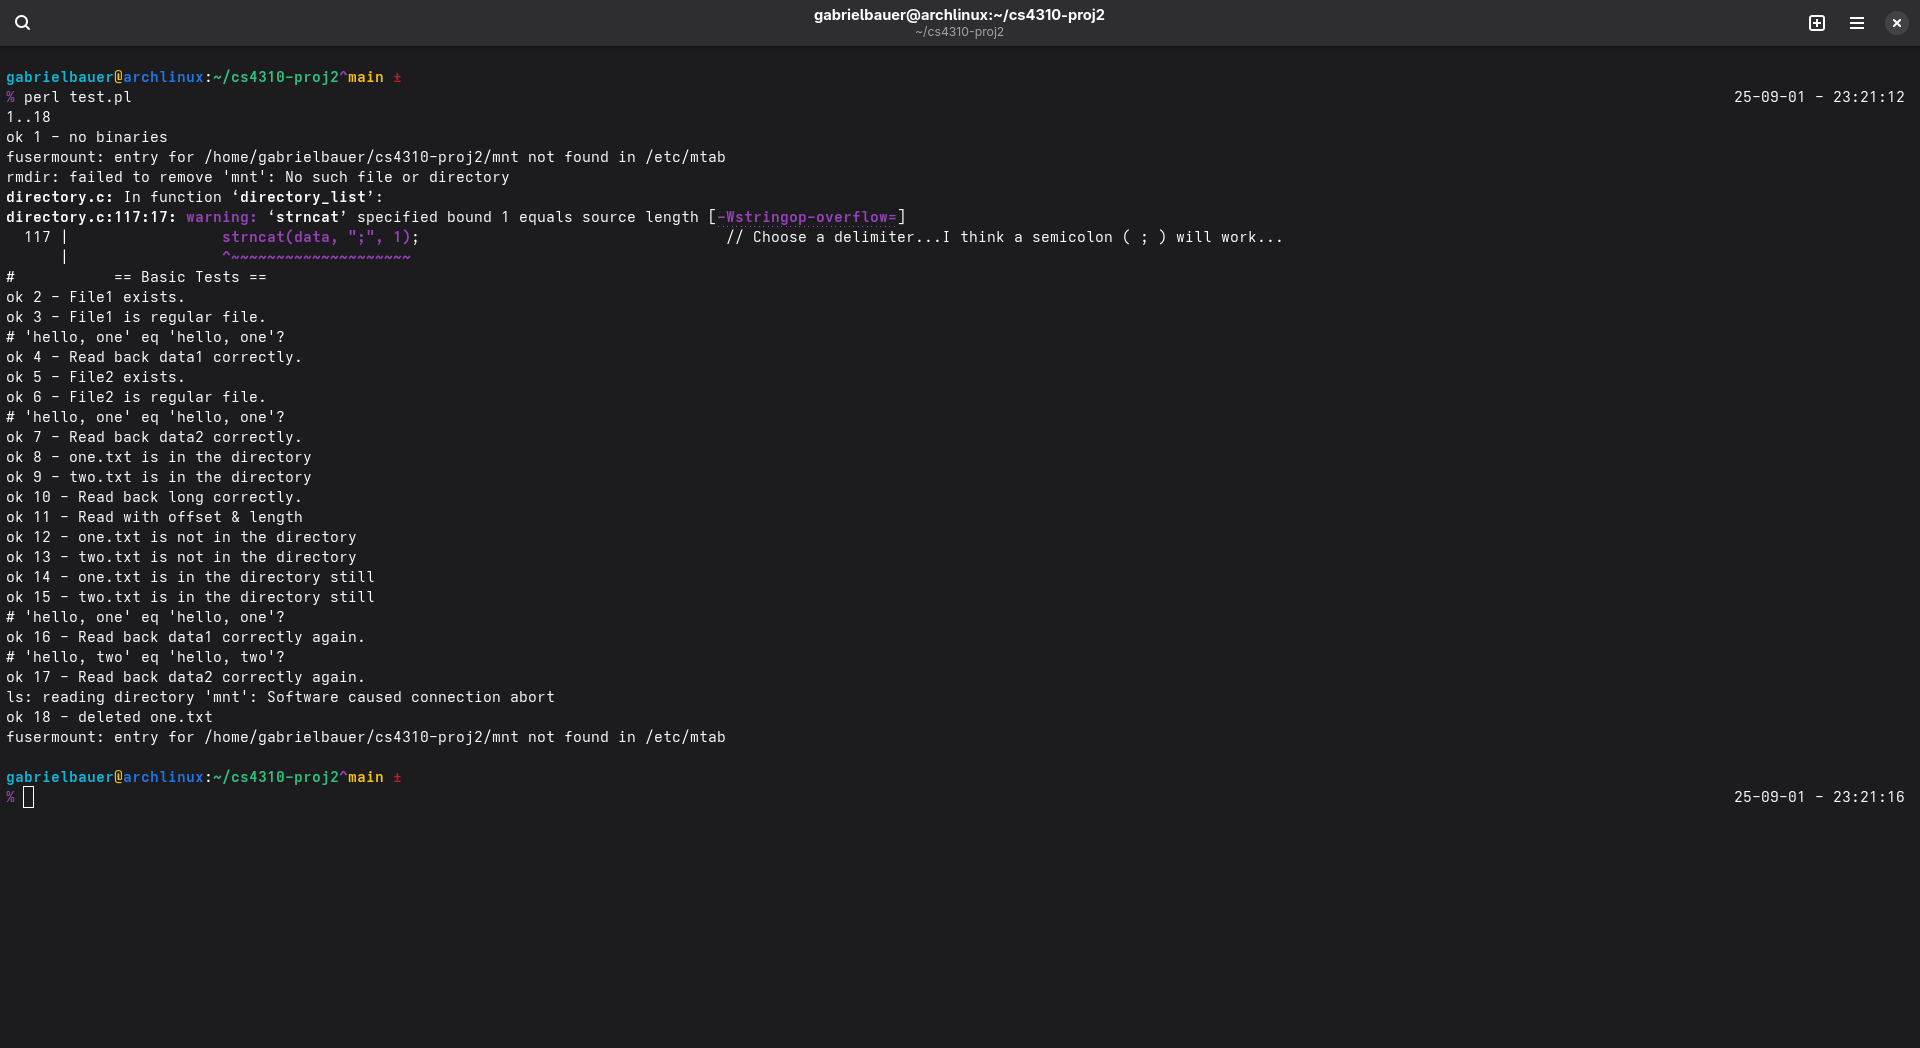
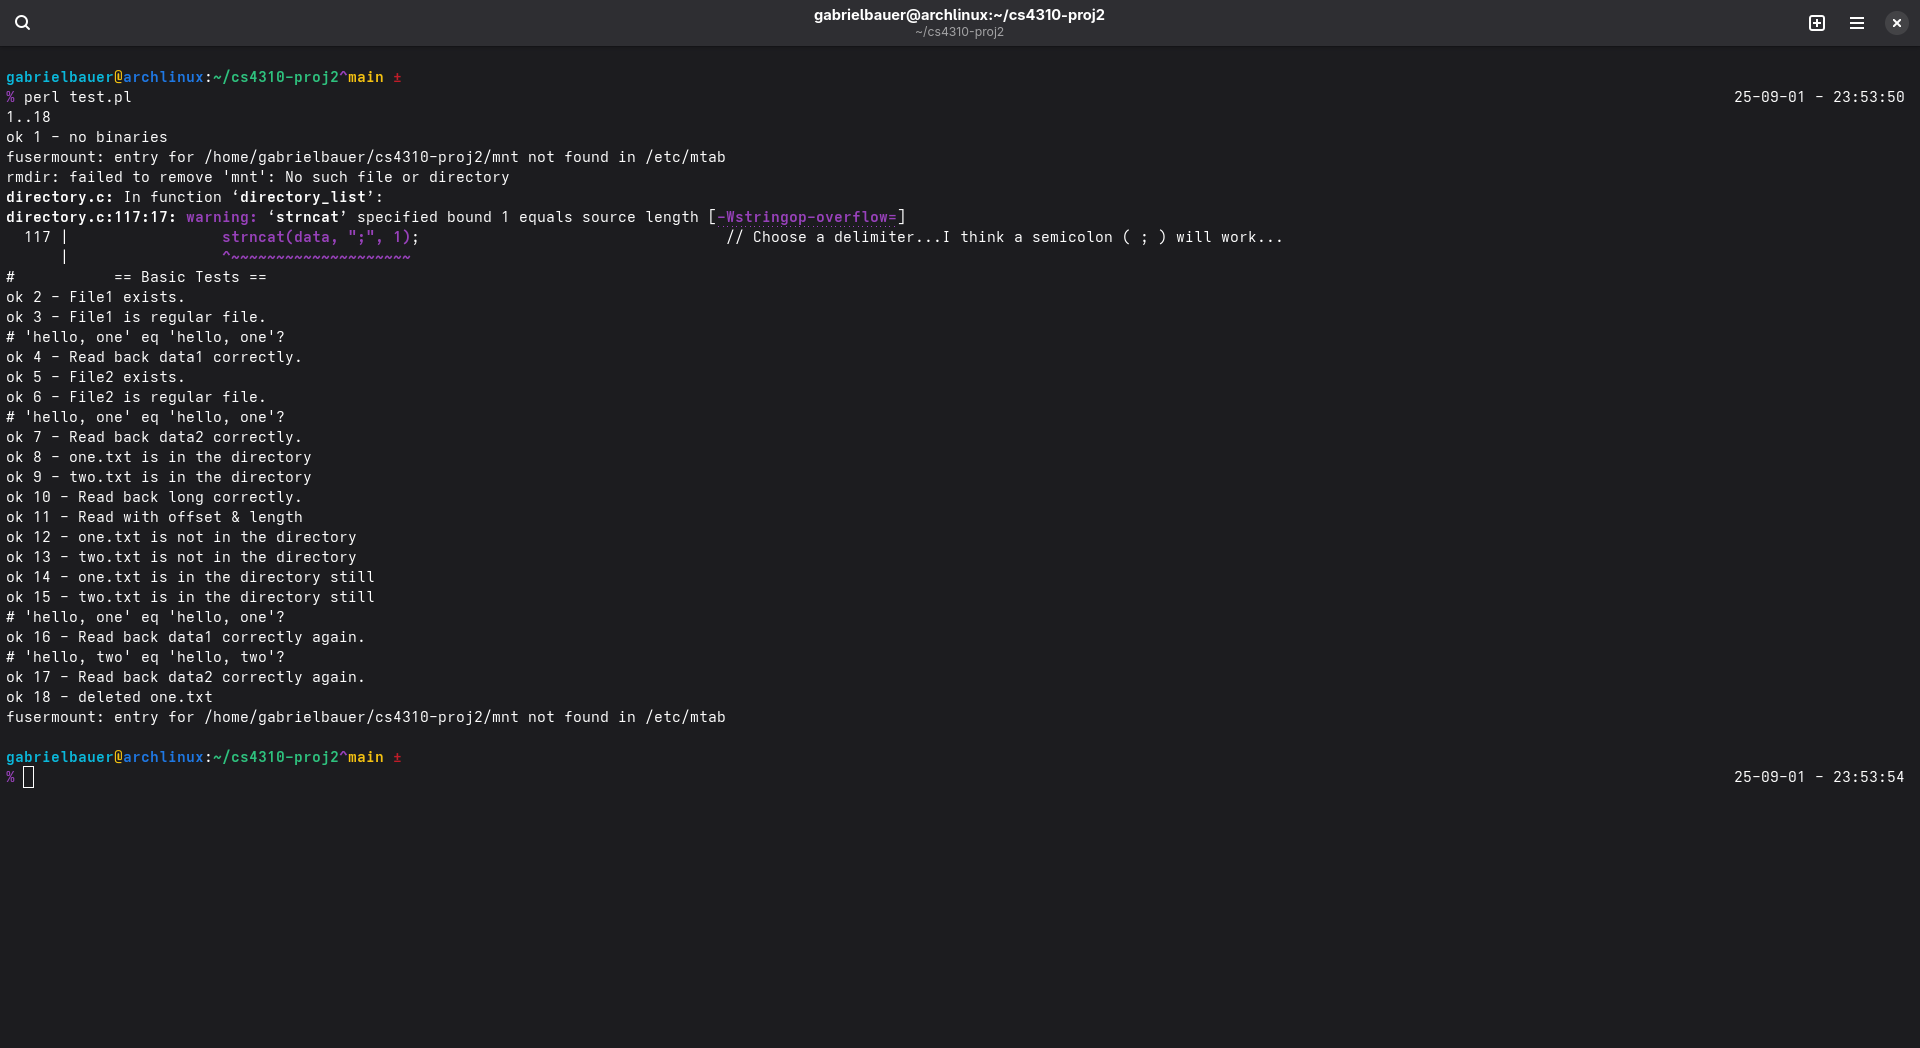
okay, NOW we are finished with the homework portion...

Changed region(s): [[0.0, 0.6412, 0.375, 0.7634], [0.9062, 0.7328, 1.0, 0.7634]]

diff --git a/nufs.c b/nufs.c
@@ -180,14 +180,12 @@ nufs_unlink(const char *path)
 	int par = tree_lookup(split(path, count_l(path)-1));
 	inode *ptr = get_inode(par);		// Parent
 	int l = tree_lookup(path);
-	inode dd;
+	inode *dd = get_inode(l);
 	
-	memcpy((char*)&dd, (char*)get_inode(l), sizeof(inode));
-	dd.refs-=1;
-	memcpy((char*)get_inode(l), (char*)&dd, sizeof(inode));
+	dd->refs-=1;
 	
 	void *ibm = get_inode_bitmap();
-	bitmap_put(ibm, dd.inum, 0);
+	if (dd->refs==0) bitmap_put(ibm, dd->inum, 0);
 	
 	dirent *file = (dirent*)pages_get_page(ptr->ptrs[0]+5);
 	

diff --git a/directory.c b/directory.c
@@ -113,7 +113,7 @@ slist* directory_list(const char* path)
 			strncpy(temp, data, i * (DIR_NAME+1));
 			data = (char*)realloc(data, i+2 * (DIR_NAME+1) * sizeof(char));
 		}
-		strncat(data, file->name, DIR_NAME);
+		if (file->active) strncat(data, file->name, DIR_NAME);
 		strncat(data, ";", 1);					// Choose a delimiter...I think a semicolon ( ; ) will work...
 		if (file->next==false) break;
 		else if ( count == 4096/sizeof(dirent) ) file = (dirent*)pages_get_page(ptr->ptrs[1]+5);	// Data pages start at 5
